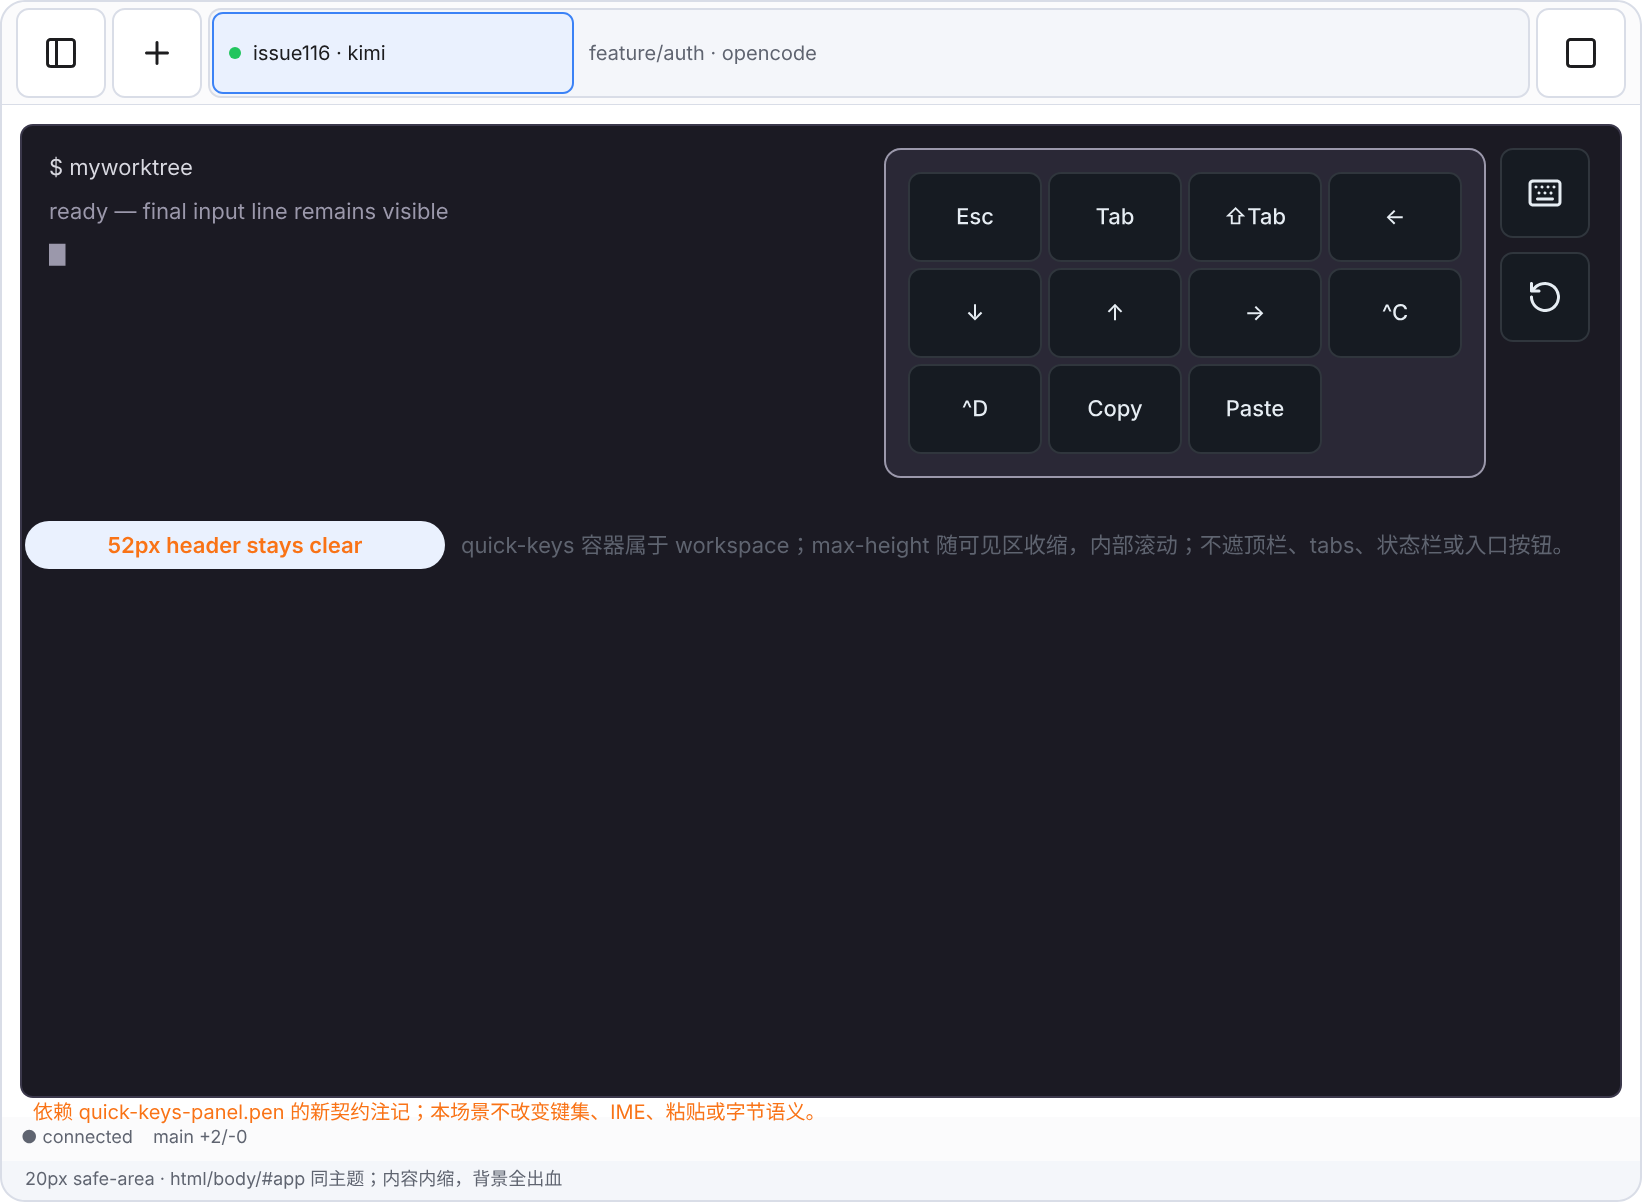
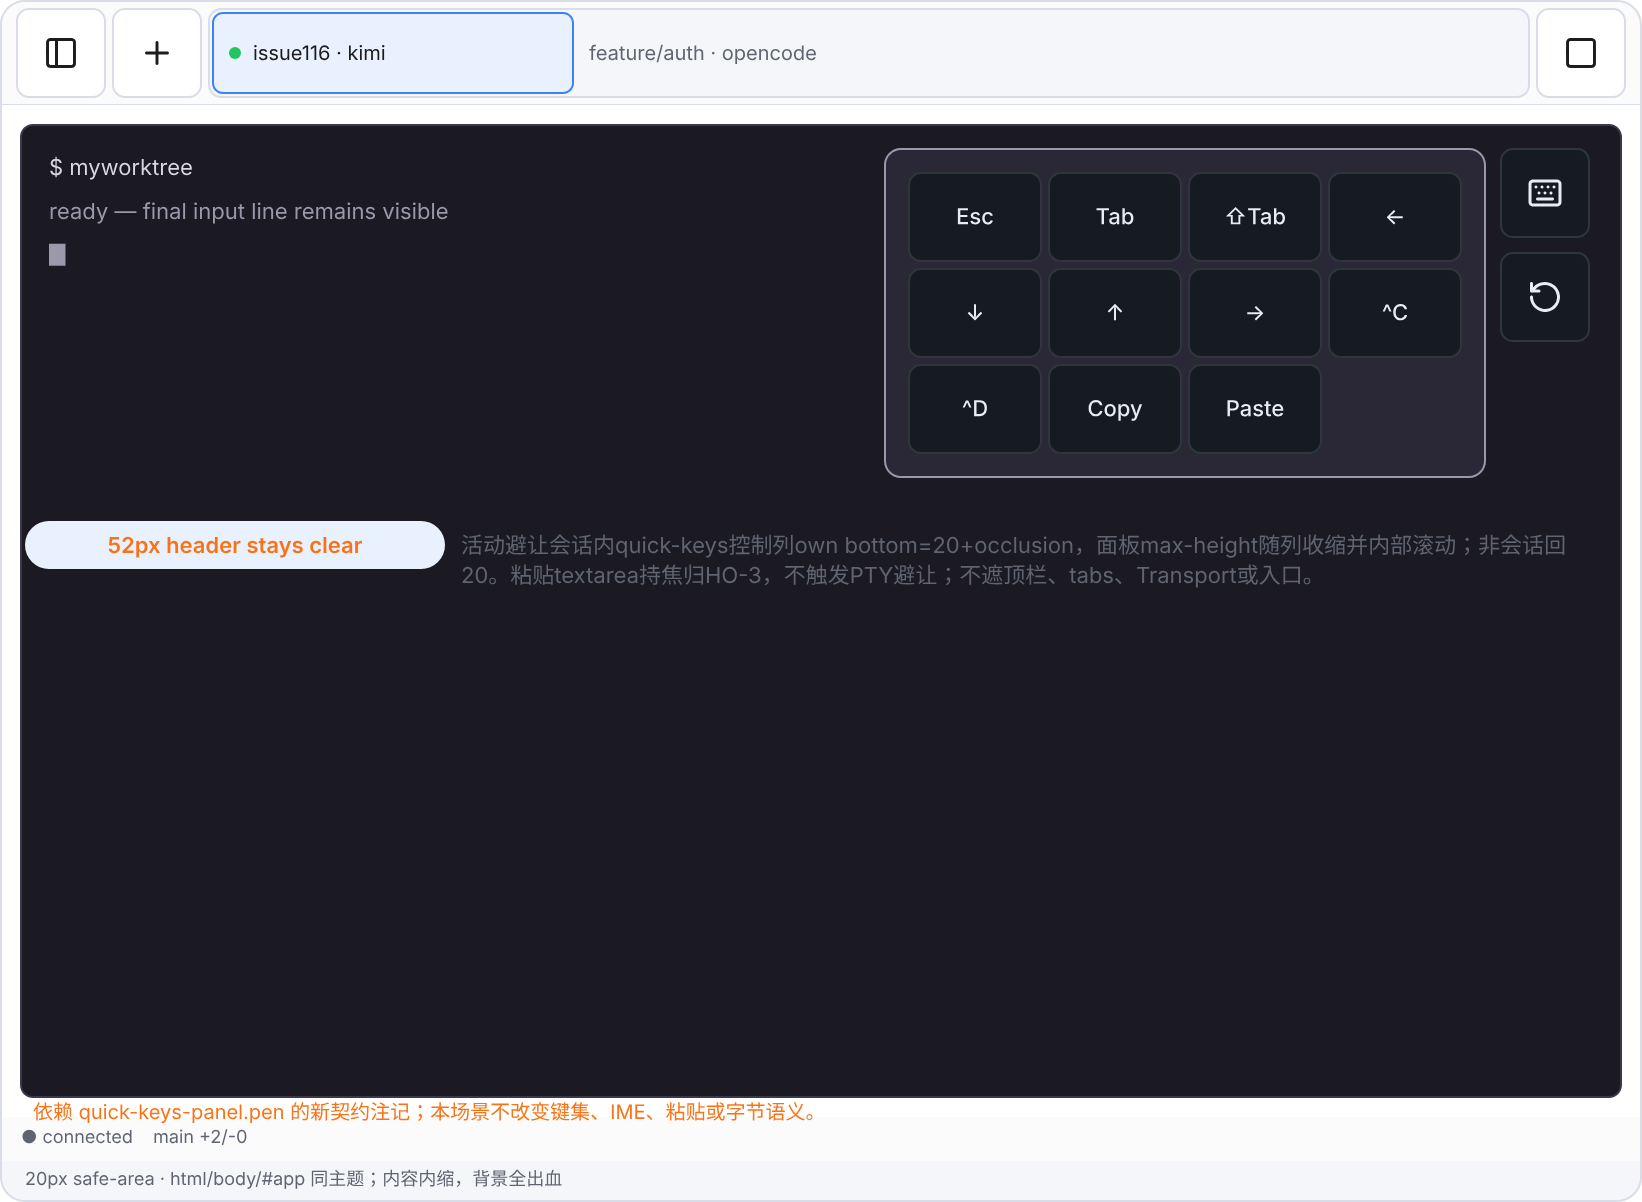
docs(design): update issue116 design sources to ownership contract v4 (issue #116)
Phase 2 任务 4：ui/sidebar-states.pen、ui/quick-keys/quick-keys-panel.pen
及 6 张原生导出 PNG 按 v2.0 输入所有权契约更新（pen 0.3.11 headless，
按节点 id 导出、不加 scale、不裁剪）：
- 废除 v3.1 时代 0.15 比值地板与“555 让位”叙事，改为会话状态机
  25% 进入 / 50% 重入门线 + 前置会话状态口径（147@748 恢复锁下
  预期 occlusion=0）；
- 新增标注：PTY 活跃/非活跃会话、Web 输入 HO-3、焦点交接序列、
  键盘/pan/zoom 边界（D2 签署前标注为待真机采证）、探针降级帧、
  stop() 零残留、D1 禁止手段；
- EXPORT-MANIFEST.md 补 v4 修订记录；preview-responsive.html 仍为
  v3.1 文案，已在清单中隔离为旧预览，不作为契约来源。

设计稿不是实现证据；本轮不宣举任何真机 PASS。文档节点与坐标/
色板不变，仅文本/名称/说明块及导出 PNG 变化。

Changed region(s): [[0.2795, 0.4309, 0.9629, 0.4925]]

diff --git a/docs/plans/fix-issue116/design/EXPORT-MANIFEST.md b/docs/plans/fix-issue116/design/EXPORT-MANIFEST.md
@@ -1,9 +1,65 @@
 # Issue #116 D0-1 / D0-2 设计导出与评审清单
 
-**日期**：2026-10-28（首版）／ 2026-11-02 修订 v2.1 ／ 2026-11-02 修订 v2.2 ／ 2026-11-03 修订 v3.0 ／ 2026-11-03 修订 v3.0a（局部避让范围补齐：控制列 + 状态栏）／ 2026-11-03 修订 v3.1（比值地板 + 状态条触底 + 滚轮隔离）／ **2026-11-03 修订 v3.1 终值：地板定 `SMALL_OCCLUSION_RATIO = 0.15`（0.25 已撤回）+ 状态条触底 + 滚轮隔离 · **`.pen` 已改稿、PNG 已用 pen 0.3.11 原生重出，无待拍板 / 待导出项**）**
+**日期**：2026-10-28（首版）／ 2026-11-02 修订 v2.1 ／ 2026-11-02 修订 v2.2 ／ 2026-11-03 修订 v3.0 / v3.0a / v3.1（均为历史）／ **2026-11-04 修订 v4（PLAN v2.0 输入所有权契约，当前口径）**
 
 **工具**：`pen version` = **0.3.11**  
-**状态**：源稿、PNG 与主 UI preview 已生成并校验；**D0-1 / D0-2 设计评审待签，PR1 / PR2 / PR3 尚未获得编码门禁放行**。
+**状态**：v4 设计源与受影响 PNG 已生成并校验；**设计评审与 Phase 2 门禁仍待签，本清单不含任何实现完成或真机 PASS 声明**。`preview-responsive.html` 不在本轮授权范围内，未同步其 v3.1 说明；它仍只是旧交互预览，不是 v4 契约来源或高度证据。
+
+## 0aaaa. 修订记录 v4（2026-11-04 · PLAN v2.0 输入所有权契约，当前）
+
+本版以 `PLAN.md` v2.0 的 R1–R6、§3 与 `PHASE1-CONTRACT.md`（含提交 `323fa91` 的修订）为现行口径。下方 v3.1 / v3.0a / v3.0 及更早段落**全部是历史记录**，其中 0.15 地板、555→147 让位、整壳钉高或根原点等旧叙事不得再作为设计或验收依据。当前进入线为布局高 ×25%，恢复后重入线为 ×50%，活动会话内 `occlusion = raw`；不存在 0.15 持续过滤地板。
+
+**证据边界**：本轮只改设计源、文本/标注与原生导出 PNG，不授权实现。设计稿、PNG、pen 结构检查和图片回读都不是 iPadOS 真机证据；未执行真机验收，不宣称任何真机 PASS。本轮开始时两份 `.pen` 已含未提交的 v4 草稿；下表记录其相对 HEAD v3.1 的最终差异，以及本轮实际完成的结构复核、保存和导出。
+
+### v4 改动节点与契约映射
+
+| 源稿 / 帧 | 改动节点 | 旧文 → 新文要点与理由 | 契约条款 |
+| --- | --- | --- | --- |
+| `sidebar-states.pen` / `d1_notes` | `d1_text_0002`、`d1_text_0003`、`d1_text_0004` | v3.1「0.15 地板 + 555 让位」→ v4 版本戳、HO-1..4 焦点归属、25% 进入 / 50% 重入、会话内全额 raw、Web 输入归 Safari；消除旧地板与输入所有权并存 | PLAN R1/R2/R4；PHASE1 B、术语「软键盘避让会话」 |
+| 同上 | `d1_text_0014` | 旧评审清单 → 证据边界、147@748 新结论、五类标注索引；D1 正向机制未选、D2 待真机采证 | PLAN §5 Phase 2 任务 4；PHASE1 E、F |
+| 同上 | 新增标注帧 `i0LM2t`；文本 `z4X55l`、`bx9BO`、`Lt220`、`Jk8zS`、`dn7Xi`、`sSCCt`、`UANCw`、`P2vsjr`、`Qx6HO`、`X66O6e` | 新增 Web 输入模式、PTY↔Web/粘贴/iframe/失焦/隐藏实例交接、键盘/pan/zoom 边界与异常回退；含探针降级、`derivedState` 非权威、`stop()` 零残留、D1 禁止手段及诊断 fixed inset 窄例外 | PLAN R1–R6、§3；PHASE1 B/C、GI-9、E D1/D2、F 通用规则 |
+| 同上 | `d1_notes` 高 1040→1700；`i0LM2t` 为新标注容器 | 仅为容纳新增文本标注；未新增/删除既有产品 UI 结构节点，未改既有节点坐标或色板 | PLAN §5 Phase 2 任务 4 的文本/标注交付 |
+| `sidebar-states.pen` / `d1_viewport_geometry` | `d1_text_1201`、`d1_text_1202` | 旧 0.15 标题/公式 → 输入所有权几何、活动/非活动会话、client `[0,vv.height]` 与 D2 未决边界 | PHASE1 术语、GI-1/GI-2、E D2 |
+| 同上 · PTY 非会话 | `d1_rect_1203`（仅 name）、`d1_text_1204`、`d1_text_1209`、`d1_text_1210`、`d1_text_1211` | 静止/旧地板叙事 → HO-2 持焦但会话非 active：`occlusion=0`、满高被浮窗覆盖为预期、键盘收起不释放归属；748/601 示例及三条解锁 | PHASE1 HO-2、GI-2、F18 |
+| 同上 · PTY 活动会话 | `d1_rect_1212`（仅 name）、`d1_text_1213`、`d1_text_1219`、`d1_text_1221`、`d1_text_1222` | 旧 15% 才让位 → 前台 PTY 持焦且会话 active 时 `occlusion=raw`，可用视口/输入行/最后一行/quick-keys/Transport 位于屏显区域；748/320 示例 | PLAN R1；PHASE1 GI-2..GI-5、GI-7 |
+| 同上 · 历史数值 | `d1_rect_1223`（仅 name）、`d1_text_1224`、`d1_text_1230`、`d1_text_1231`、`d1_text_1232`、`d1_text_1233` | 「555 必须让位 / 633.5 仅按地板豁免」→ 702 布局进入线 175.5、重入线 351；147 与 68.5 均须结合前置会话状态，不再存在「147 必须让位」 | PHASE1 GI-2、F 表四档场景锚点、G |
+| 同上 · 边界 | `d1_rect_1234`（仅 name）、`d1_text_1235`、`d1_text_1241`、`d1_text_1242`、`d1_text_1243` | Home Indicator 说明块改作边界标注：scale 变化=新几何；菜单/妙控缩小无键盘不得误避让；pan=403 是未修复事实；持续出屏停止并回 D1；offsetTop 不入 raw | PLAN R5、§3；PHASE1 F13/F17、E D1/D2 |
+| `sidebar-states.pen` / `d1_quick_short` | `d1_text_1295` | 旧泛化局部避让 → 活动会话控制列 `20+occlusion`、非会话回 20；粘贴 textarea 为 HO-3，不触发 PTY 避让 | PHASE1 HO-3、GI-4、F4/F5 |
+| `quick-keys-panel.pen` / `qk0001` | `qk0010b` | v3.1 地板/旧数值 → v4 所有权、会话区间、25%/50%、147@748 恢复锁结论、HO-3 粘贴、交接、zoom/pan 边界与禁止手段 | PLAN R1/R2/R4/R5、§3；PHASE1 B/C、GI-2/GI-4/GI-5 |
+| 同上 / `qk0053` | `qk0062` | 「终端失焦=预期」→ 粘贴 textarea 持焦=HO-3，Safari 最小 pan、无 PTY 避让/双重补偿；点回终端后按当帧会话重判 | PHASE1 HO-3、F4/F5 |
+| 同上 / `qk0124` | `qk0125`、`qk0156` | 「≥15% 才让位」→ 明确 PTY 持焦且活动会话前提、`occlusion=raw`、三盒让位与非会话覆盖预期；粘贴输入不套用 PTY 避让 | PHASE1 HO-2/HO-3、GI-2/GI-4/GI-5 |
+
+### v4 数值复算与事实边界
+
+- `raw = max(0, clientHeight − vv.height)`；`vv.offsetTop` 只记录 pan 事实，不进入 raw。
+- 748 布局、`vv.height=601`：`raw=147`；进入线 `748×25%=187`，恢复后重入线 `748×50%=374`。恢复锁且无 click / focusin / 窗口几何变化解锁时，预期 `occlusion=0`，不是 v3.1 的让位 147。
+- 748 布局、`vv.height=320`：`raw=428`，进入线 187、重入线 374；在 HO-2、非缩放、无恢复锁或已解锁且达线的前提下，活动会话 `occlusion=428`，宿主/控制列/Transport 分别为 428/448/428。
+- 702 布局：`vv.height=555` → `raw=147 < 175.5`；`vv.height=633.5` → `raw=68.5 < 175.5`；恢复后重入线 351。所有结论都需前置会话状态，数值本身不证明场景来源。
+- `vv.offsetTop=403`、`app.top=-403`、宿主底边 `-103`、120 个稳定帧仅重述 C 会话历史事实；**不是已修复**。D1 仅部分签署禁止手段，D2 的 scale 来源与 scale<1 兼容仍待真机采证。
+
+### v4 原生导出与实际像素
+
+使用 `pen version` = **0.3.11**；每个 frame 通过 `get_app_state()` / `Get` 复核后 `save()`，再以 `Export(ids,"png",dir)` 按节点 id 原生导出并改为既定文件名。未传 scale、未 resize、未裁剪；每张 PNG 均只导出 **1 次**。
+
+| Frame id | 既定 PNG | v4 实际像素 | v3.1 像素 / 变化 |
+| --- | --- | ---: | --- |
+| `d1_notes` | `ui/notes-decisions.png` | **2362×3402** | 2362×2082；**高 +1320**（新增标注帧，源高 +660 CSS px） |
+| `d1_viewport_geometry` | `ui/viewport-geometry.png` | **2882×2482** | 2882×2482；未变 |
+| `d1_quick_short` | `ui/quick-keys-short-viewport.png` | **1642×1202** | 1642×1202；未变 |
+| `qk0001` | `ui/quick-keys/notes-decisions.png` | **1002×1728** | 1002×1694；**高 +34**（自动文本排版） |
+| `qk0053` | `ui/quick-keys/component-panel-paste-fallback.png` | **562×724** | 562×664；**高 +60**（HO-3 粘贴交接说明增长） |
+| `qk0124` | `ui/quick-keys/scene-iphone-keyboard-panel.png` | **802×1772** | 802×1772；未变 |
+
+实际导出命令序列（临时目录仅承载节点 id 原图，随后按上表改名）：
+
+```
+pen interactive --in ui/sidebar-states.pen --out ui/sidebar-states.pen
+  save() → execute(Export(["d1_notes","d1_viewport_geometry","d1_quick_short"],"png","/tmp/issue116-v4-export.OAlq8l/sidebar"))
+pen interactive --in ui/quick-keys/quick-keys-panel.pen --out ui/quick-keys/quick-keys-panel.pen
+  save() → execute(Export(["qk0001","qk0053","qk0124"],"png","/tmp/issue116-v4-export.OAlq8l/quick-keys"))
+```
+
+`Get` 的 `ctx.problems` 未报告上述改动帧存在 `partially clipped` / `fully clipped`；6 张 PNG 均已回读检查，未见新增文本截断或重叠。该检查只针对设计产物，不是产品实现或真机验收。其余源内容未变的 PNG 不重出。
 
 ## 0aaa. v3.1 设计同步（2026-11-03 · **本 pass 已真实改稿并重出 PNG**）
 
@@ -157,7 +213,7 @@ pen interactive --in ui/quick-keys/quick-keys-panel.pen --out ui/quick-keys/quic
 - 三份源稿均通过 `pen interactive` 的 `get_app_state()` 文档/schema 校验，并由 `save()` 保存。
 - frame id 通过 `Get((n,c)=>{c.skipChildren();Print(n.id,n.name,n.width,n.height)})` 查询确认；未使用占位 id。
 - 所有 PNG 均通过 interactive `Export(ids, "png", dir)` 原生导出，**未传入 scale，也未做任何后期 resize、裁剪或截图缩放**。下表记录实际 PNG 像素尺寸；其大于 CSS 场景尺寸是 CLI 当前导出行为。
-- 本轮未升级 CLI，未混用不同 CLI/Export 路径。quick-keys 仅说明帧与 iPhone 软键盘帧的源内容发生变化，因此只重出这两帧；其余五帧源内容与既有 PNG 保持不变。
+- 本轮未升级 CLI，未混用不同 CLI/Export 路径。v4 仅重出主 UI 的 `d1_notes` / `d1_viewport_geometry` / `d1_quick_short` 与 quick-keys 的 `qk0001` / `qk0053` / `qk0124`；其余源内容与既有 PNG 保持不变。
 - 已逐项目检主 UI 与 Portal 必需画面。初次主 UI 导出中发现的终端坐标遮挡、密度说明重叠及 Portal 空态表头换行问题均已回改 `.pen` 并重新导出，不以修图代替源稿修正。
 
 ## 2. D0-1 主 UI
@@ -167,7 +223,7 @@ pen interactive --in ui/quick-keys/quick-keys-panel.pen --out ui/quick-keys/quic
 
 | Frame id | PNG（`ui/`） | 实际像素 | 覆盖内容 |
 | --- | --- | ---: | --- |
-| `d1_notes` | `notes-decisions.png` | 2362×2082 | 状态矩阵、断点不变、全宽内联、**满高壳 + 键盘覆盖 + PTY 局部避让（并拒绝参考应用的隐藏可滑区）**、证据边界 |
+| `d1_notes` | `notes-decisions.png` | 2362×3402 | 状态矩阵、断点不变、全宽内联；v4 输入所有权、Web 输入、焦点交接、键盘/pan/zoom 与异常回退标注；设计/证据边界 |
 | `d1_desktop_expanded` | `desktop-expanded.png` | 2882×1802 | 1440×900、240px 展开侧栏、running 仅 Stop |
 | `d1_desktop_collapsed` | `desktop-collapsed.png` | 2882×1802 | 折叠零宽、stopped 的 Restart + Delete 内联 |
 | `d1_action_states` | `desktop-action-states.png` | 2882×1962 | running / starting / stopping / stopped 四态及完整矩阵 |
@@ -181,16 +237,17 @@ pen interactive --in ui/quick-keys/quick-keys-panel.pen --out ui/quick-keys/quic
 | `d1_density390` | `worktree-density-390.png` | 782×1690 | 390×844、240px drawer、无动作无空行 |
 | `d1_density820` | `worktree-density-820.png` | 1642×2362 | 820×1180、200px 并排侧栏与滚动后果 |
 | `d1_density_matrix` | `worktree-density-matrix.png` | 3362×2602 | 320/390/820 × 0/1/multi 设计矩阵；真实滚动数据待回填 |
-| `d1_viewport_geometry` | `viewport-geometry.png` | 2882×2482 | v3.0 四格：壳恒满高 + 宿主贴底 682、软键盘下只有宿主被 `occlusion` 抬起（条带是 `--term-bg` 墨色）、妙控真浮窗不改 VV → 避让 0、横屏/Home Indicator 铺底与内缩 |
-| `d1_quick_short` | `quick-keys-short-viewport.png` | 1642×1202 | 820×600 矮视口、quick-keys 与新顶栏互不遮挡 |
+| `d1_viewport_geometry` | `viewport-geometry.png` | 2882×2482 | v4 四格：PTY 活动/非活动会话两态、25%/50% 门线与历史数值重述、键盘/pan/zoom 边界；不含 0.15 地板 |
+| `d1_quick_short` | `quick-keys-short-viewport.png` | 1642×1202 | 820×600 矮视口；活动会话控制列随 `20+occlusion` 收缩，粘贴 textarea 为 HO-3；quick-keys 与新顶栏互不遮挡 |
 
 ### quick-keys 既有稿件复核
 
 设计源：[quick-keys-panel.pen](../../../../ui/quick-keys/quick-keys-panel.pen)
 
-- 形态、键集、入口、左展与内部滚动不变；说明帧（`qk0010b`）已按 v2.1 改写为固定壳 + 根原点契约，不再引用 `visibleBottom − app.top`，也不再留"妙控浮动栏分类待复核"的悬置表述。
-- iPhone 软键盘帧（`qk0125` 帧名 + `qk0156` 标注）的旧"经硬遮挡分类后 `visibleBottom − app.top`"描述已改为 `scale = 1 且 vv.height < clientHeight → #app = vv.height`，并写明同一次判定把根 scroll 归零；容器的 `max-height:100%` 内部滚动仍来自可见区收缩。
-- `qk0001` → `notes-decisions.png`（**1002×1388**，v3.0 因 `qk0010b` 说明文本变长再增长 34px）；`qk0124` → `scene-iphone-keyboard-panel.png`（802×1772，未变）。
+- 形态、键集、入口、左展与内部滚动不变；说明帧（`qk0010b`）已按 v4 改写为焦点归属 + 冻结会话几何口径，不再使用 0.15 地板，也不再把 Web 粘贴输入当作 PTY 避让触发器。
+- 粘贴兜底组件（`qk0053` / `qk0062`）明确 textarea 持焦为 HO-3、Safari 最小 pan、无 PTY 避让/双重补偿，点回终端后按当帧会话重判；对应 `component-panel-paste-fallback.png` 为 **562×724**。
+- iPhone 软键盘帧（`qk0125` + `qk0156`）明确前台 PTY 持焦且活动会话前提，会话内 `occlusion=raw`；非会话 `occlusion=0`、满高被覆盖为预期，粘贴 textarea 则归 HO-3。
+- `qk0001` → `notes-decisions.png`（**1002×1728**）；`qk0053` → `component-panel-paste-fallback.png`（**562×724**）；`qk0124` → `scene-iphone-keyboard-panel.png`（**802×1772**，尺寸未变）。
 
 ### preview 验证（只验证 preview，不是 PR1/真机证据）
 
